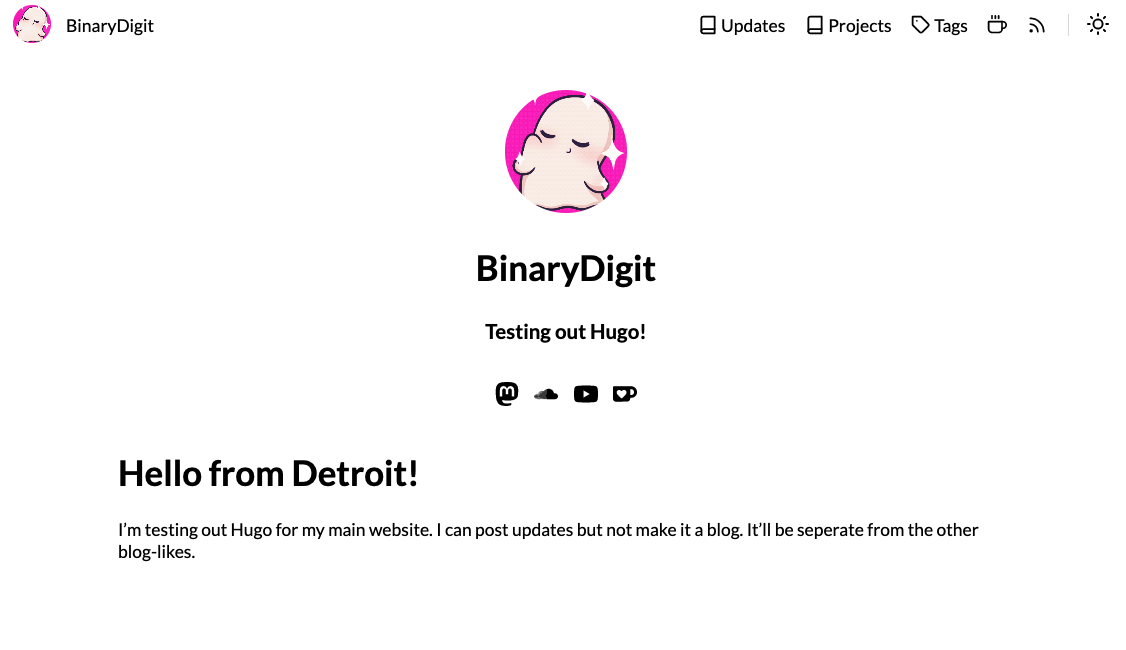
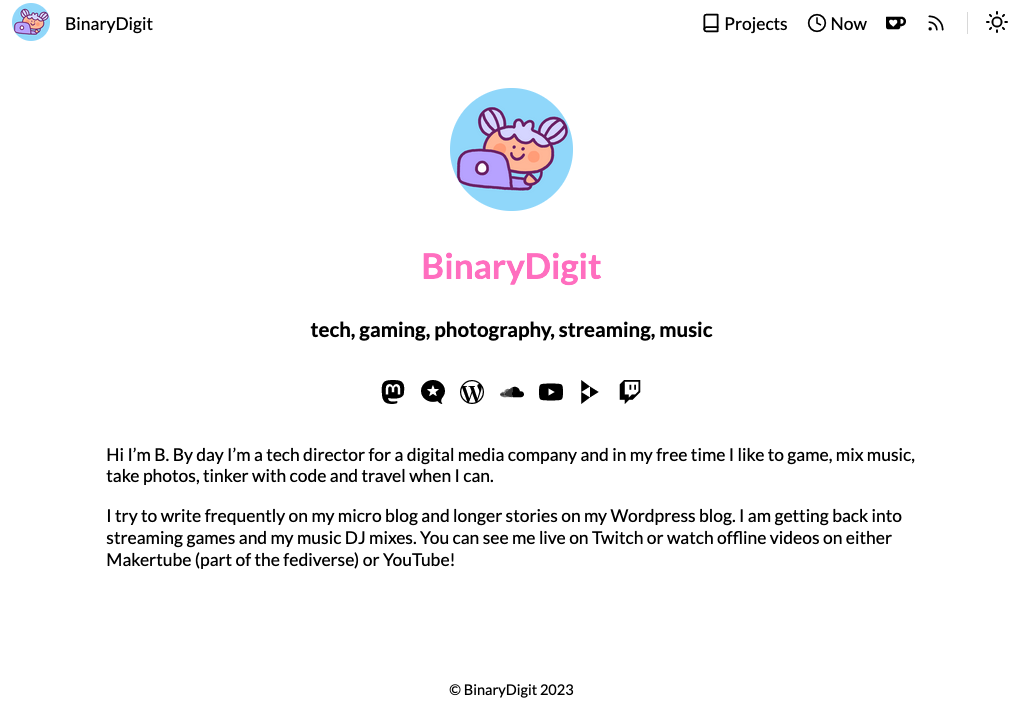
add screenshot

diff --git a/static/css/custom.css b/static/css/custom.css
@@ -8,3 +8,7 @@ h1 {
 h2 {
     color: #8be9fd;
 }
+
+hr {
+    color: #f1fa8c;
+}

diff --git a/content/projects/_index.md b/content/projects/_index.md
@@ -5,6 +5,16 @@ type: "page"
 ---
 
 
-## [Website Redesign](/projects/webdev/)
+## Website redesign
 
-## [Music uploads](https://binarydigit.rocks)
+I'm redoing my website with [Hugo](https://gohugo.io) and loving it so far. A while back my brain didn't click well with static site generators, but now I'm loving it.
+
+I'm using the [Gokarna](https://gokarna-hugo.netlify.app/) theme which is simple yet super customizable. 
+
+![screenshot](/images/screenshot.png)
+
+---
+
+## Music Site
+
+[BinaryDigit.rocks](https://binarydigit.rocks) A place to upload my mixes with song lists as a back up to SoundCloud and YouTube/PeerTube.
